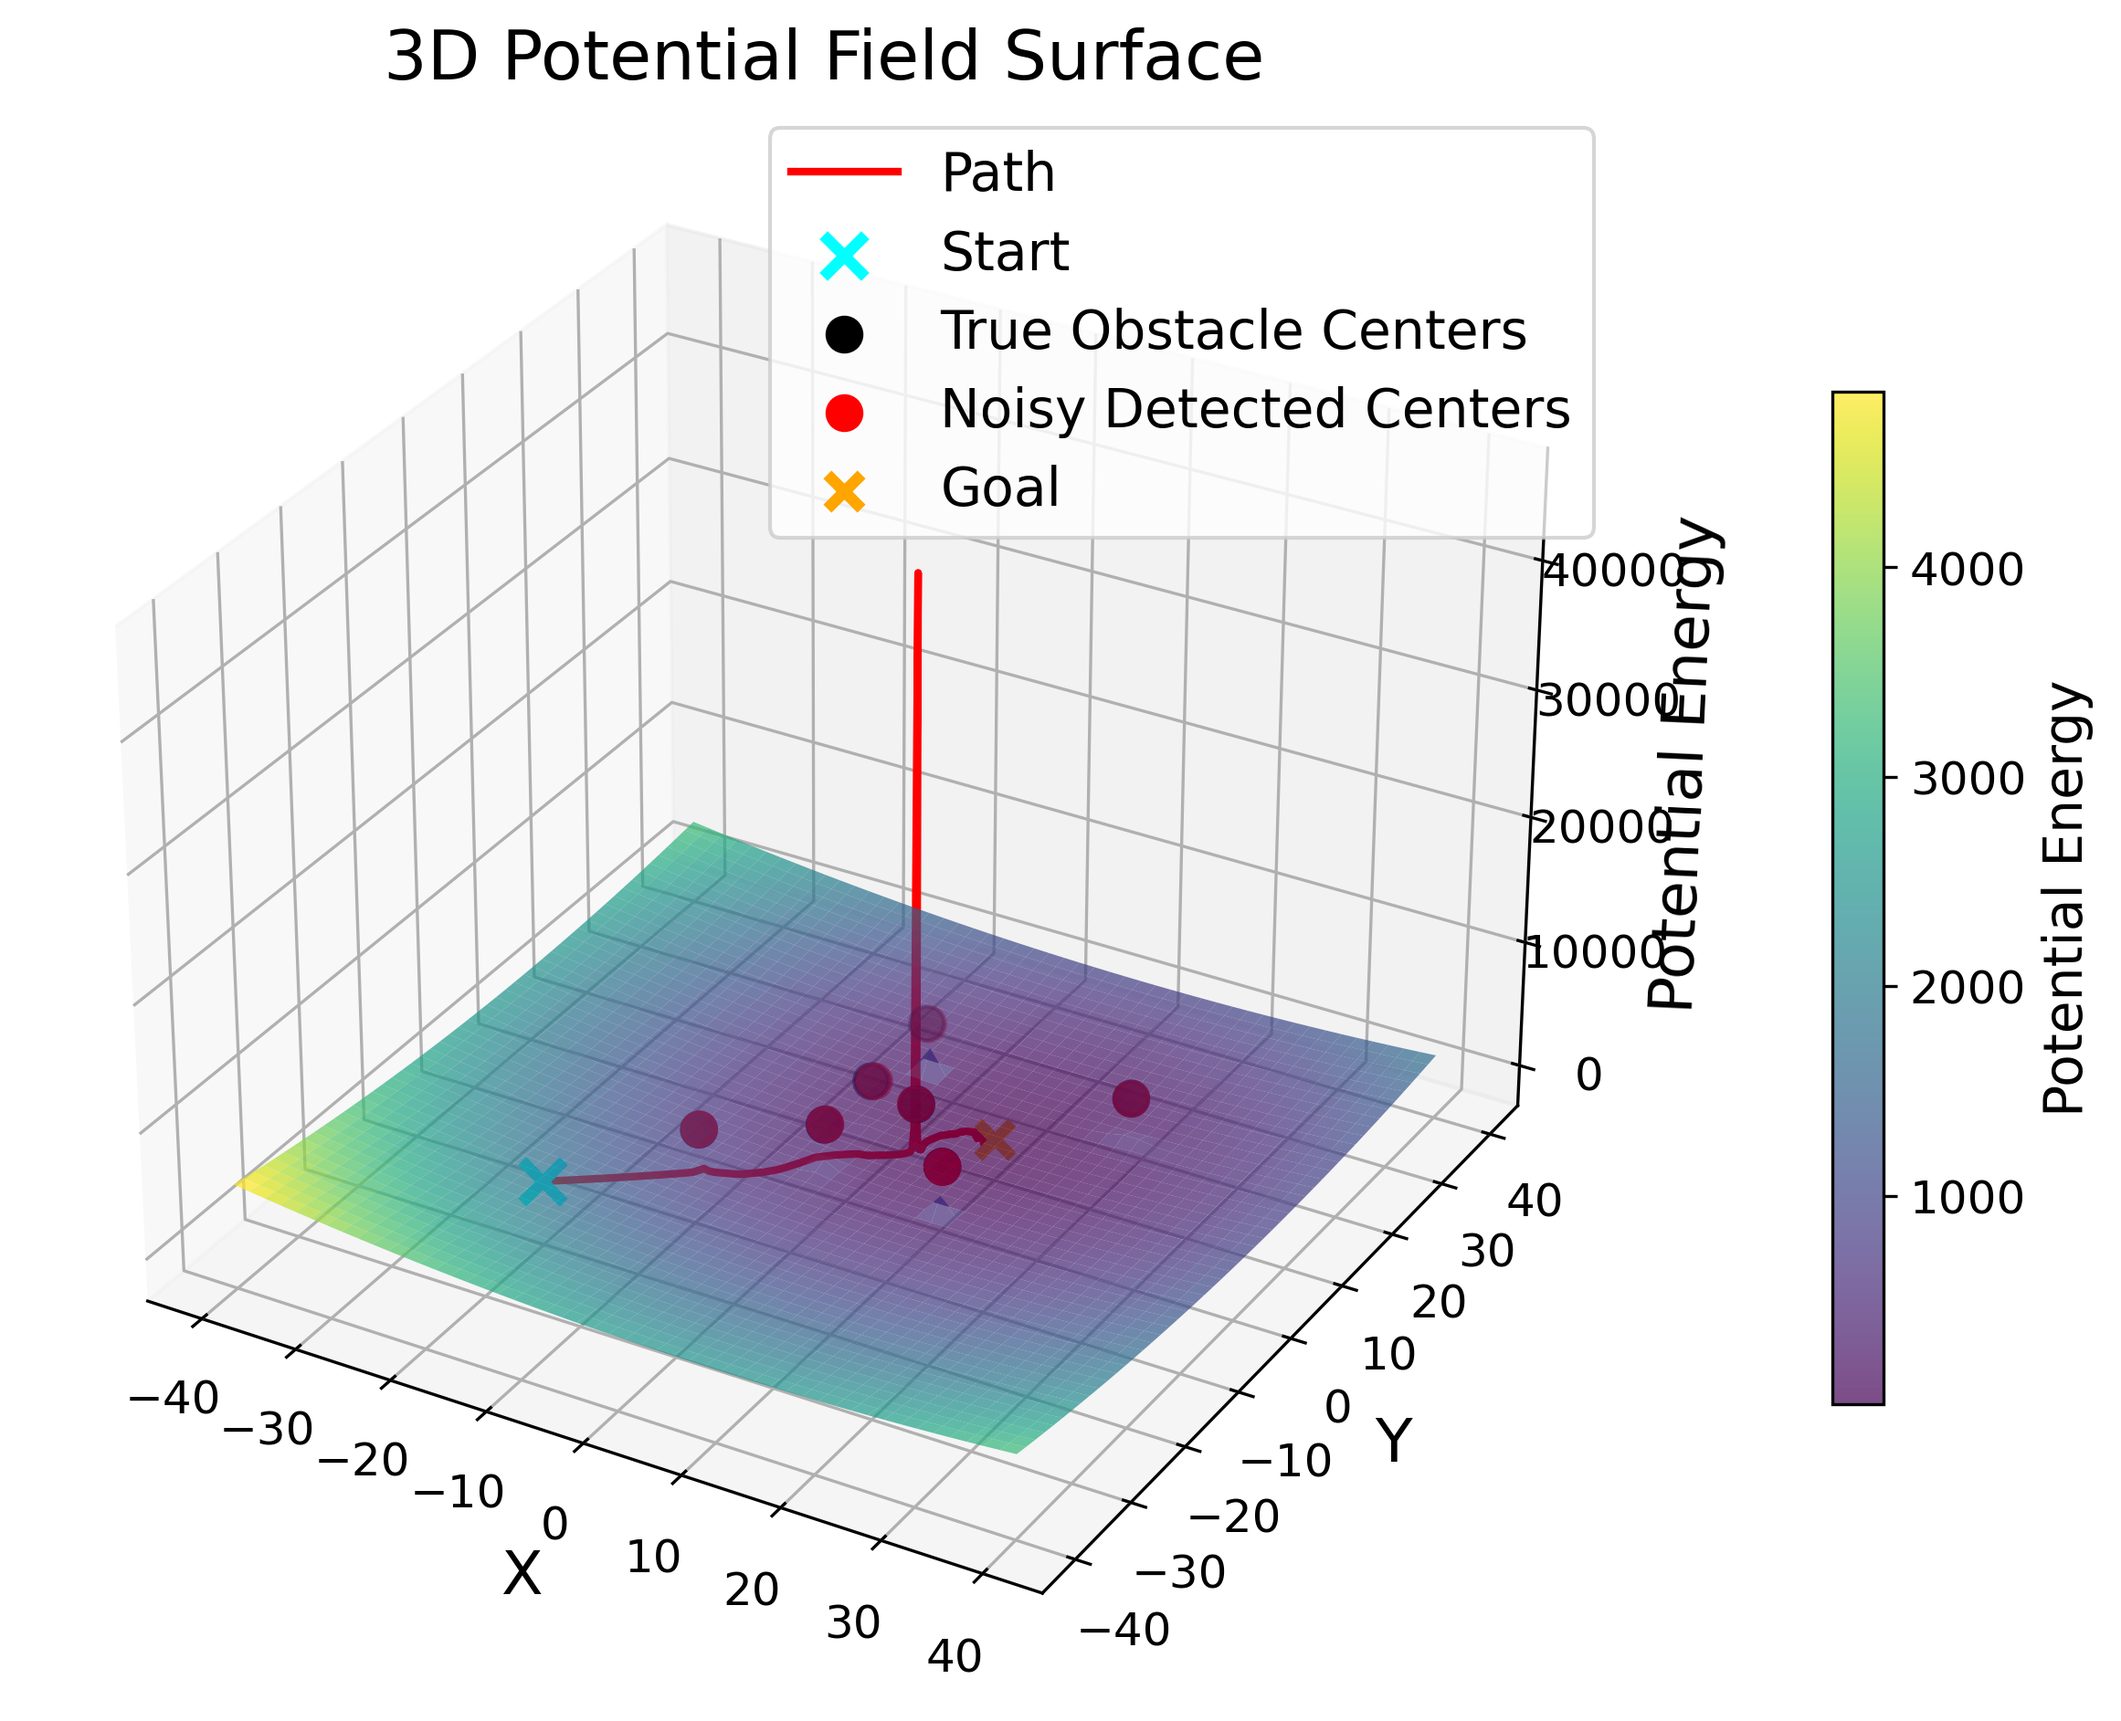
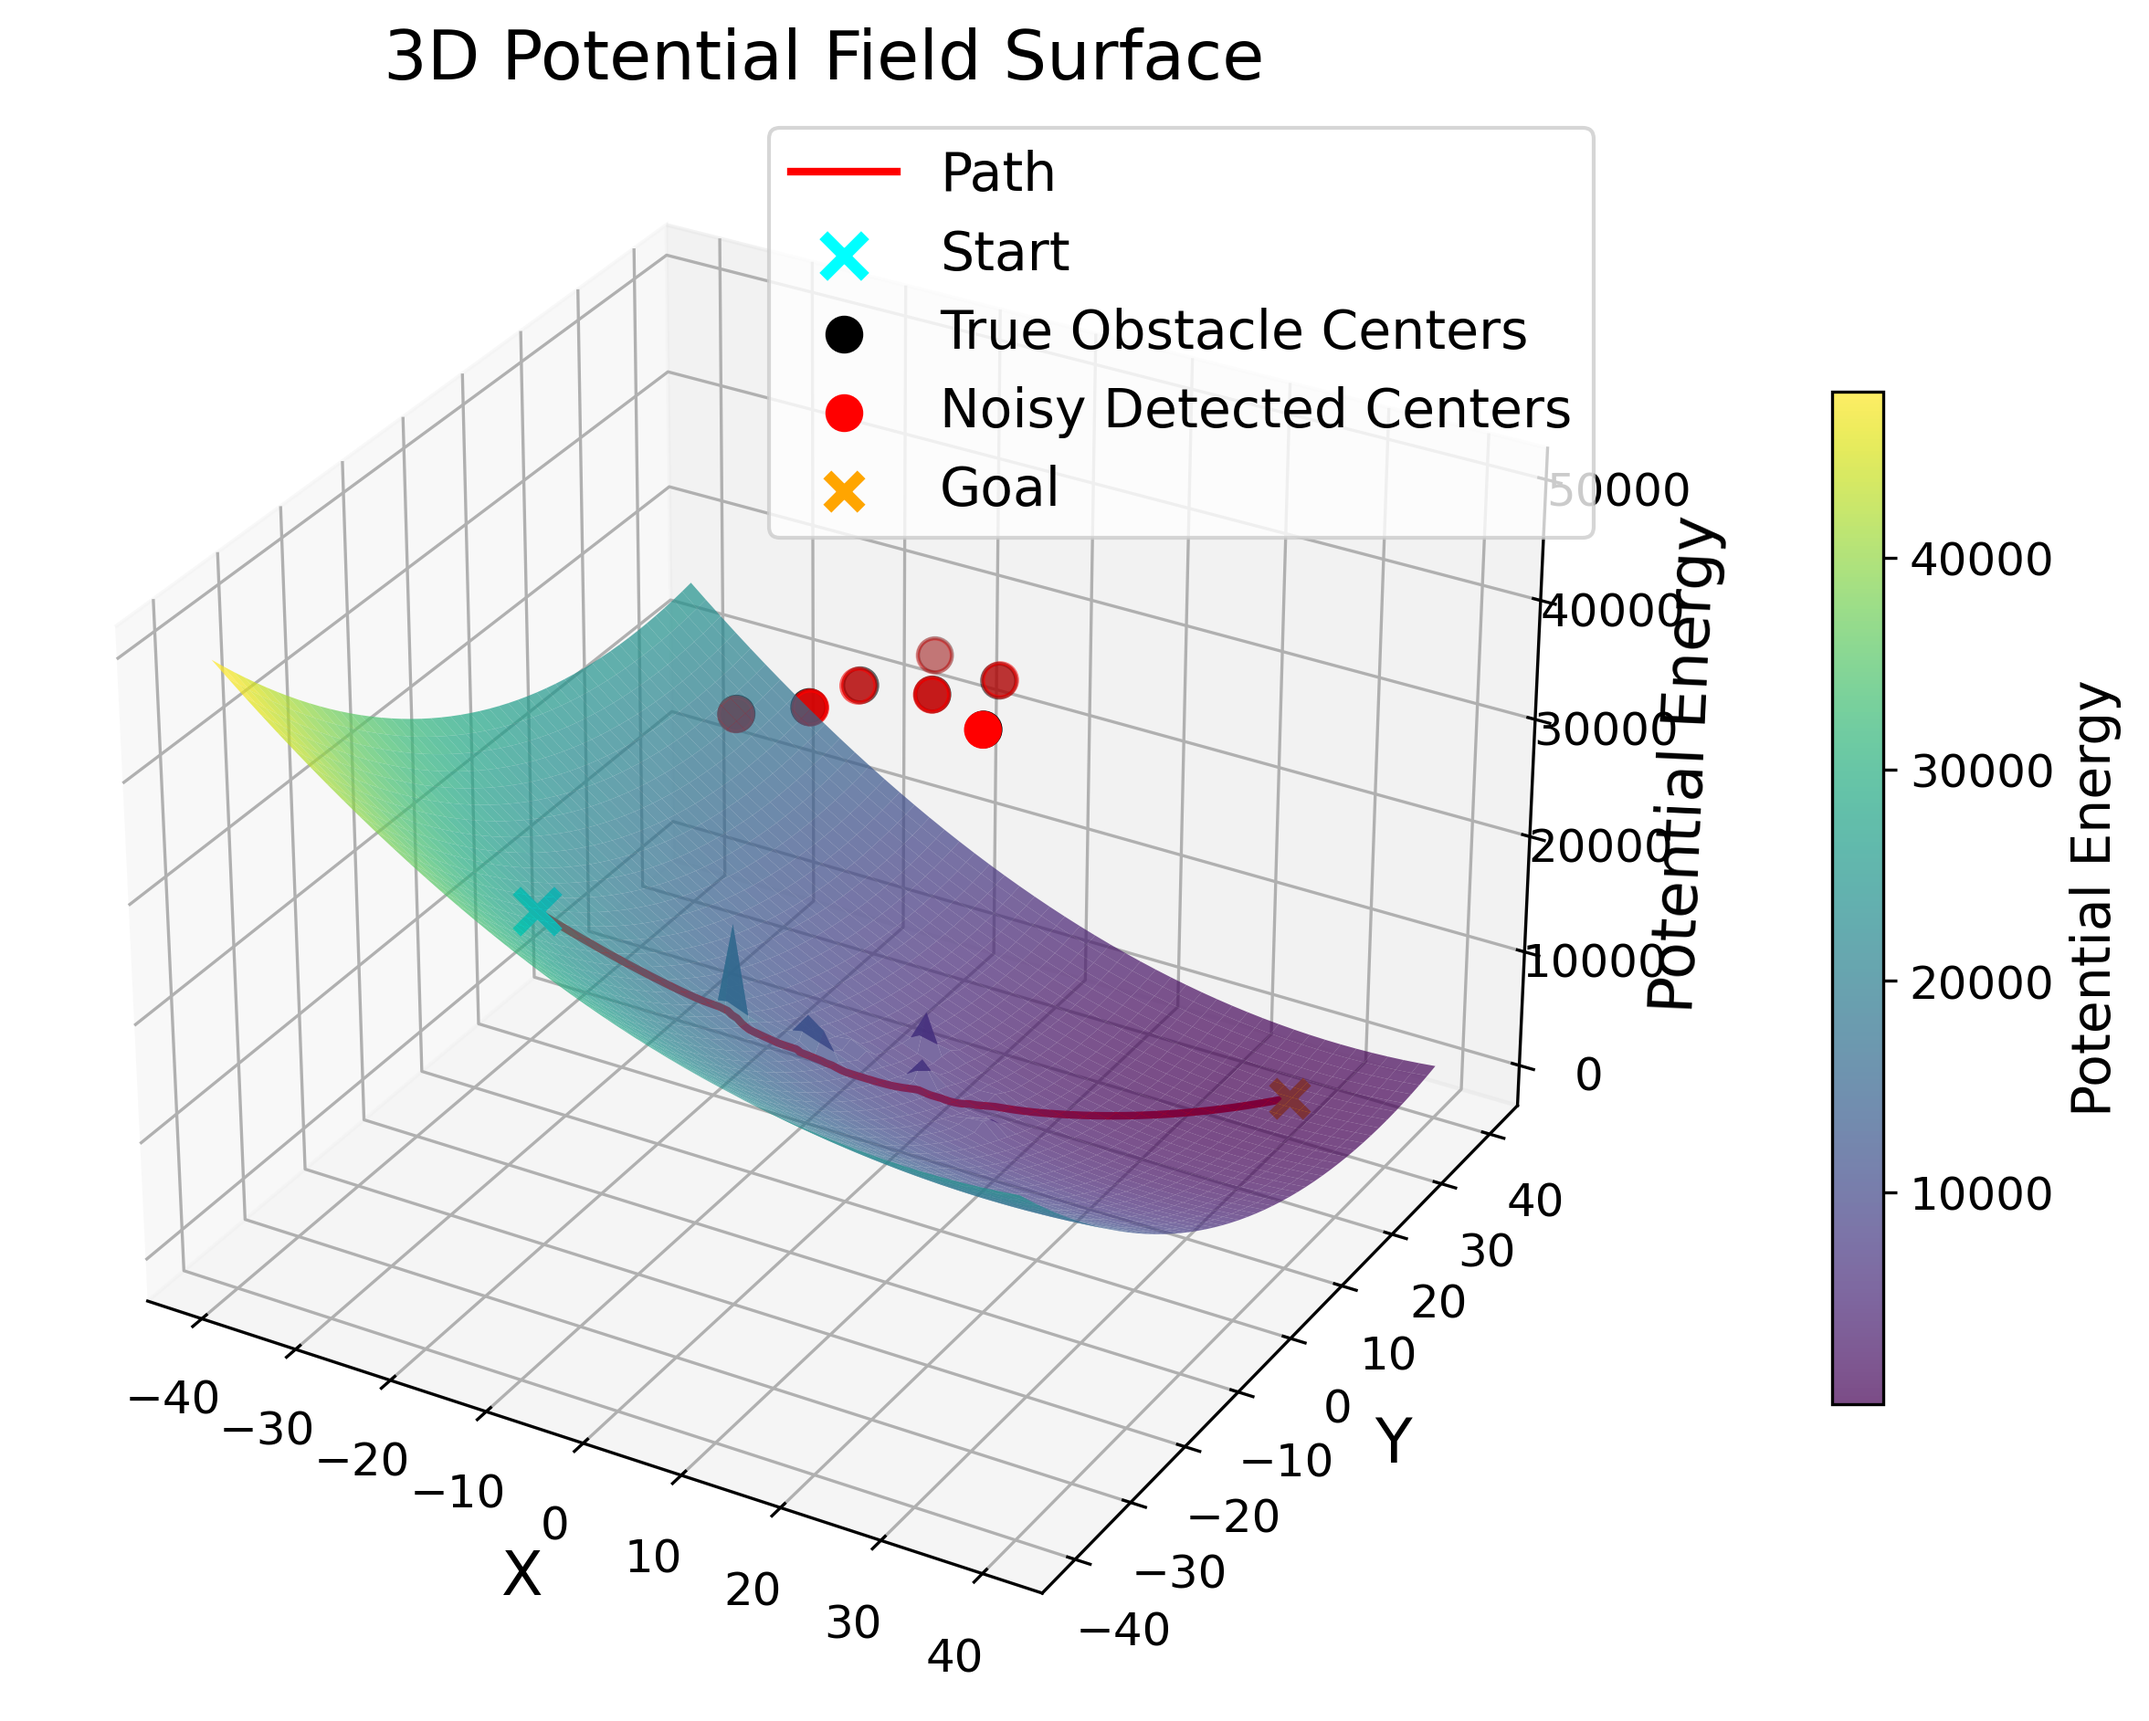
small changes added

diff --git a/local_potential_field_demo_dynamic.py b/local_potential_field_demo_dynamic.py
@@ -14,7 +14,7 @@ from matplotlib.patches import Ellipse
 
 os.makedirs("figures", exist_ok=True)
 
-q_goal = np.array([10, 10]) # goal position
+q_goal = np.array([30, 30]) # goal position
 q = np.array([-20.0, -20.0]) # starting position of the robot
 
 # obstacle coordinates 
@@ -24,11 +24,11 @@ obstacles_noisy = obstacles_true + np.random.normal(0, sigma, obstacles_true.sha
 
 # obstacle speeds
 obstacle_speeds = np.array([[-0.1, 0.1], [-0.2, 0.2], [0.1, 0.2], [-0.2, -0.1], [0.1, -0.1], [-0.1, 0.1], [0.2, 0.1]])
-obstacle_speeds = obstacle_speeds * 5
+obstacle_speeds = obstacle_speeds * 2
 
 # APF parameters
-k_att, k_rep, d0, dt = 2.0, 40.0, 2.0, 0.01
-max_rep_force = 14.0
+k_att, k_rep, d0, dt = 10.0, 500.0, 3.0, 0.001
+max_rep_force = np.inf
 path_data = [q.copy()]
 initial_obstacles = obstacles_true.copy()
 
@@ -84,7 +84,7 @@ def repulsive_force(q, obstacles_noisy, obstacle_speeds):
         dE = np.sqrt(float((q - obs).T @ Q @ (q - obs)) + 1e-12)
 
         # dynamic avoidance boundary
-        d0_i = 1.2 * max(a, b)
+        d0_i = d0 * max(a, b)
 
         if dE < d0_i:
             F_mag = k_rep * (1/dE - 1/d0_i) * (1/dE**2)
@@ -119,7 +119,7 @@ def potential(q, q_goal, obstacles_noisy, obstacle_speeds):
         dE = np.sqrt(float(v.T @ Q @ v) + 1e-12)
         
         # dynamic avoidance boundary
-        d0_i = 1.2 * max(a, b)
+        d0_i = d0 * max(a, b)
 
         if dE < 1e-6:  # avoid division by zero
             dE = 1e-6
@@ -234,7 +234,7 @@ V = np.zeros_like(Y)
 
 # simulate the path
 max_steps = 2000
-tolerance = 0.1
+tolerance = 0.5
 
 for step in range(max_steps):
     
@@ -358,8 +358,8 @@ axs[0].plot(obstacles_noisy[:,0], obstacles_noisy[:,1], 'ro', label='Noisy Cente
 axs[0].scatter(q_goal[0], q_goal[1],
                marker='x', s=120, color='orange', linewidths=3, label='Goal')
 
-# --- draw ellipses for TRUE obstacles
-for i, obs in enumerate(obstacles_true):
+# --- draw ellipses for noisy obstacles
+for i, obs in enumerate(obstacles_noisy):
     vx, vy = obstacle_speeds[i]
     vmag = np.sqrt(vx**2 + vy**2)
     theta = np.degrees(np.arctan2(vy, vx + 1e-12))
@@ -375,6 +375,16 @@ for i, obs in enumerate(obstacles_true):
         linestyle='--', linewidth=1.5
     )
     axs[0].add_patch(ellipse)
+
+    # Add obstacle ID label on ellipse
+    axs[0].text(
+        obs[0], obs[1],
+        f"{i}",                   # obstacle number
+        color="yellow",
+        fontsize=10,
+        ha="center", va="center",
+        weight="bold"
+    )
 
 axs[0].set_title("Potential Energy Map with Elliptical Obstacles")
 axs[0].legend()
